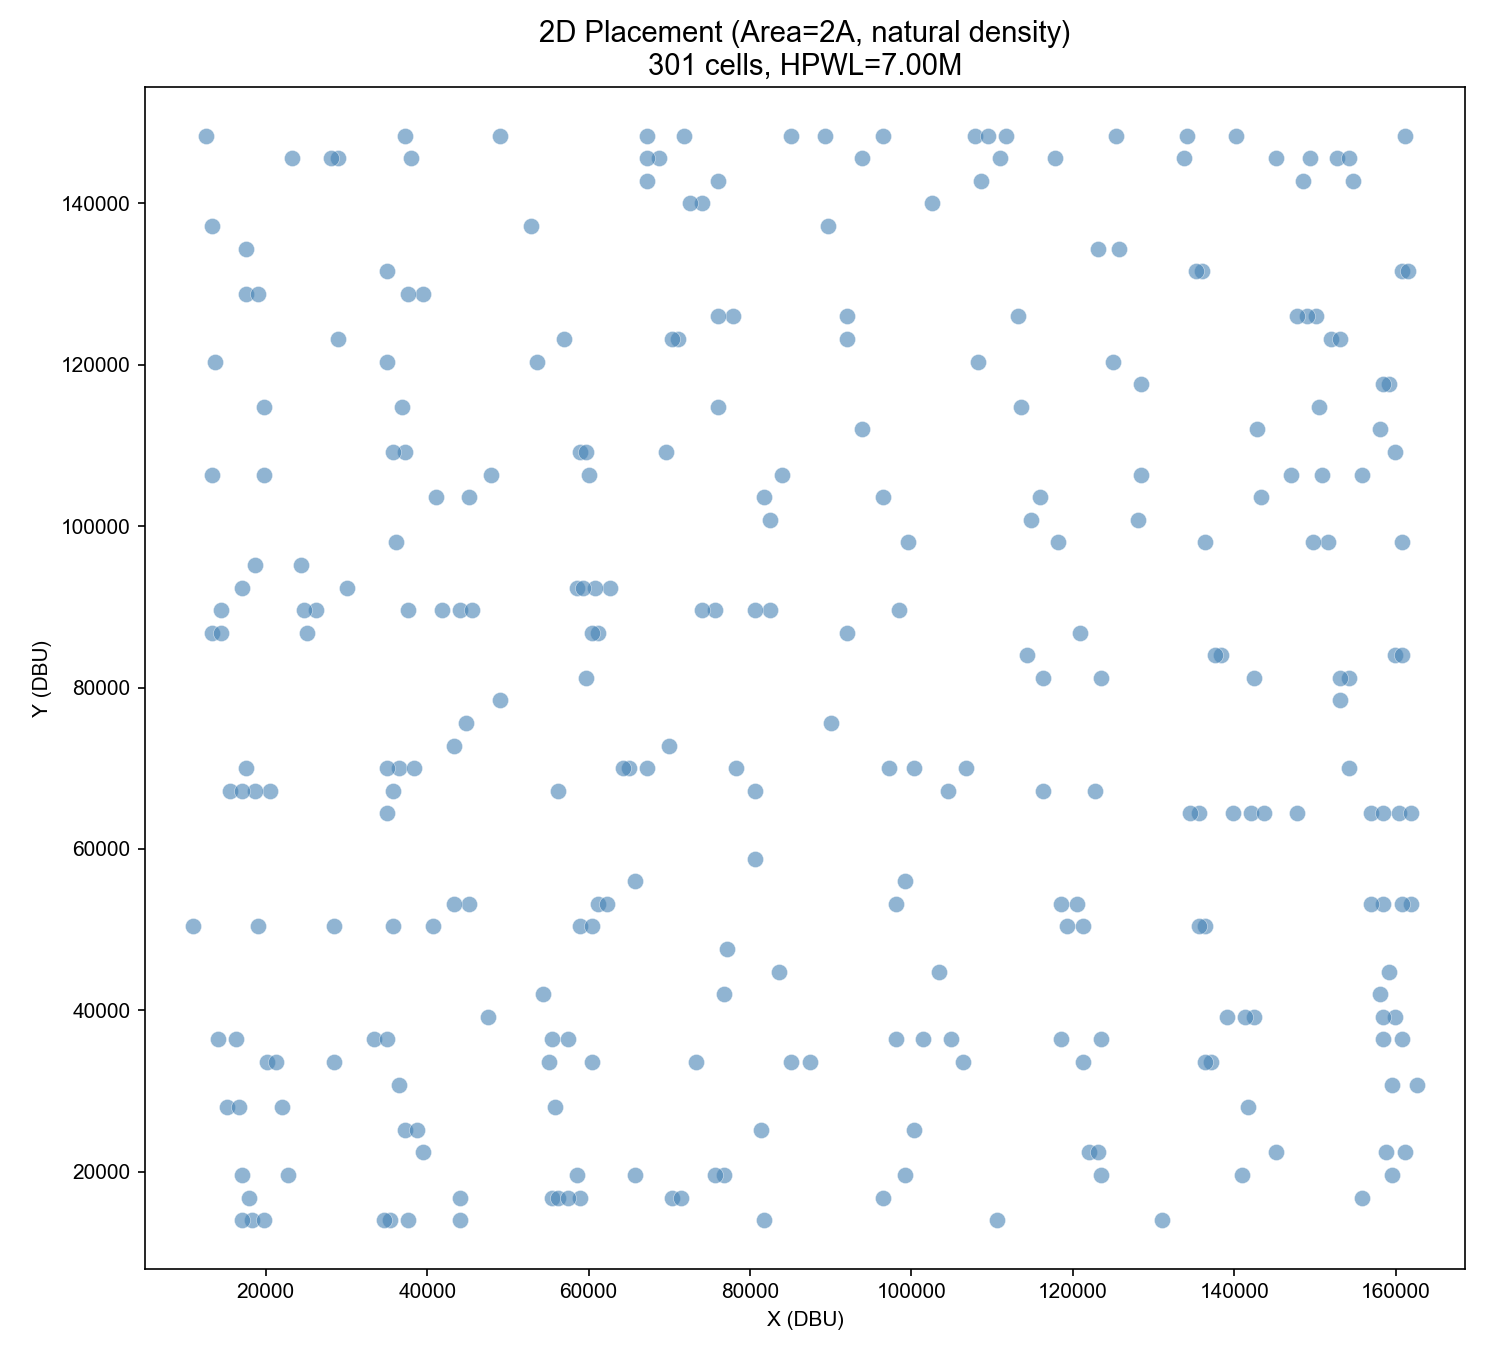
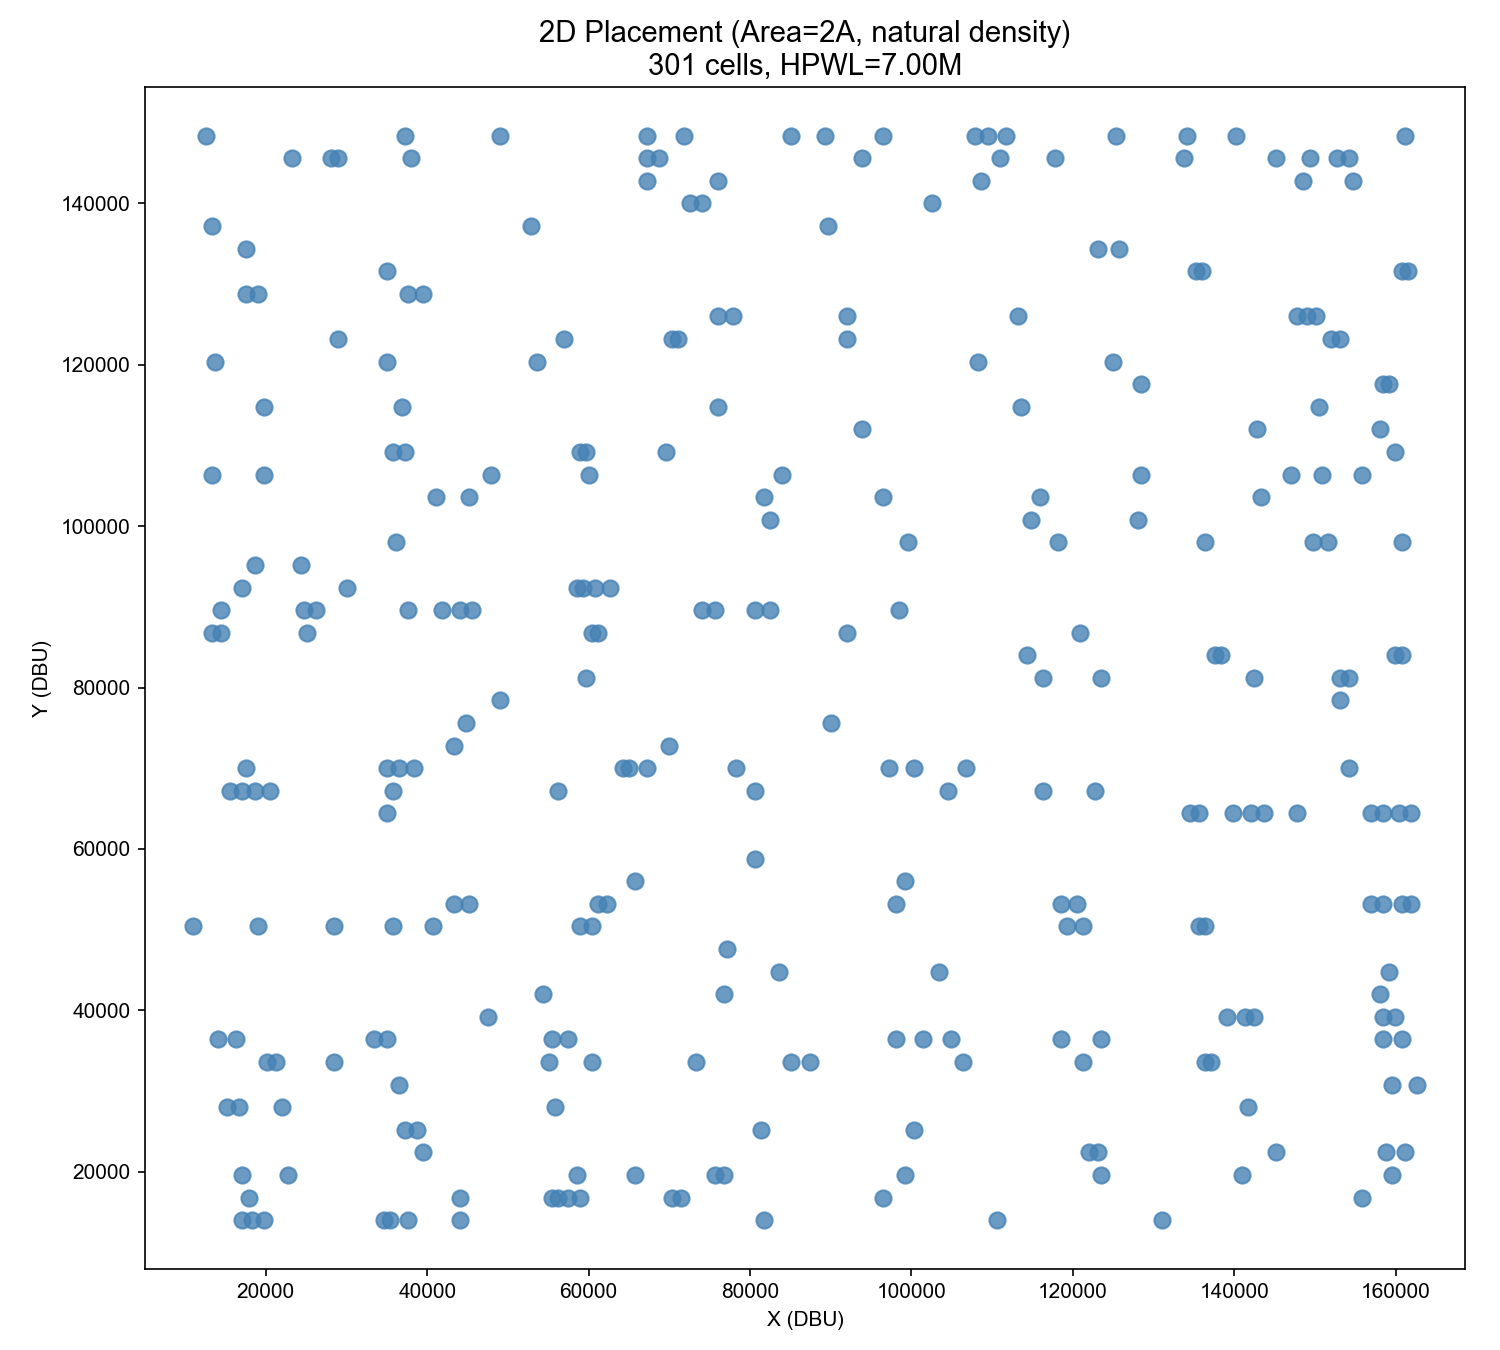
最简单的散点图: Bottom vs Top Die

diff --git a/scripts/plot_placement.py b/scripts/plot_placement.py
@@ -3,6 +3,7 @@
 
 import re, math
 import matplotlib
+matplotlib.use('Agg')
 import matplotlib.pyplot as plt
 matplotlib.rcParams['font.sans-serif'] = ['Arial Unicode MS', 'DejaVu Sans']
 matplotlib.rcParams['axes.unicode_minus'] = False
@@ -12,6 +13,8 @@ def parse(path):
     with open(path) as f: t = f.read()
     m = re.search(r'DIEAREA\s*\(\s*(\d+)\s+(\d+)\s*\)\s*\(\s*(\d+)\s+(\d+)\s*\)', t)
     if m: da = tuple(map(int, m.groups()))
+    comp = re.search(r'COMPONENTS[^;]*;(.*?)END COMPONENTS', t, re.DOTALL)
+    if comp: t = comp.group(1)
     for m in re.finditer(r'- (\S+) (\S+).*?\+ PLACED\s*\(\s*(\d+)\s+(\d+)\s*\)', t):
         cells.append((m.group(1), int(m.group(3)), int(m.group(4)), m.group(2)))
     return cells, da
@@ -26,7 +29,7 @@ ratio_2d = da2d[2] / da3d[2]
 # 1. 2D placement — zoom to cells
 fig, ax = plt.subplots(figsize=(10, 9))
 xs = [x for _,x,y,_ in d2d]; ys = [y for _,x,y,_ in d2d]
-ax.scatter(xs, ys, c='steelblue', s=60, alpha=0.6, edgecolors='white', linewidth=0.3)
+ax.scatter(xs, ys, c='steelblue', s=60, alpha=0.8)
 m = 6000
 ax.set_xlim(min(xs)-m, max(xs)+m); ax.set_ylim(min(ys)-m, max(ys)+m)
 ax.set_title(f'2D Placement (Area=2A, natural density)\n{len(d2d)} cells, HPWL=7.00M', fontsize=14, fontweight='bold')
@@ -38,7 +41,7 @@ plt.tight_layout(); plt.savefig('figures/gcd_2d.png', dpi=150); plt.close()
 fig, ax = plt.subplots(figsize=(8, 7))
 if bot:
     xs, ys = zip(*bot)
-    ax.scatter(xs, ys, c='#2E86AB', s=250, alpha=0.8, edgecolors='white', linewidth=0.5)
+    ax.scatter(xs, ys, color='#2E86AB', s=250, alpha=0.8)
     margin = 4000
     ax.set_xlim(min(xs)-margin, max(xs)+margin)
     ax.set_ylim(min(ys)-margin, max(ys)+margin)
@@ -51,7 +54,7 @@ plt.tight_layout(); plt.savefig('figures/gcd_3d_bottom.png', dpi=150); plt.close
 fig, ax = plt.subplots(figsize=(8, 7))
 if top:
     xs, ys = zip(*top)
-    ax.scatter(xs, ys, c='#D66853', s=250, alpha=0.8, edgecolors='white', linewidth=0.5)
+    ax.scatter(xs, ys, color='#D66853', s=250, alpha=0.8)
     margin = 4000
     ax.set_xlim(min(xs)-margin, max(xs)+margin)
     ax.set_ylim(min(ys)-margin, max(ys)+margin)
@@ -67,14 +70,14 @@ ax = axes[0]
 xs = [x for _,x,y,_ in d2d]; ys = [y for _,x,y,_ in d2d]
 sf = math.sqrt(ratio_2d)
 m = 6000
-ax.scatter(xs, ys, c='steelblue', s=40*sf, alpha=0.6, edgecolors='white', linewidth=0.3)
+ax.scatter(xs, ys, c='steelblue', s=40*sf, alpha=0.8)
 ax.set_title(f'2D (Area=2A)  {len(d2d)} cells', fontsize=12*sf, fontweight='bold')
 ax.set_xlim(min(xs)-m, max(xs)+m); ax.set_ylim(min(ys)-m, max(ys)+m); ax.set_aspect('equal')
 
 ax = axes[1]
 if bot:
     xs, ys = zip(*bot)
-    ax.scatter(xs, ys, c='#2E86AB', s=200, alpha=0.8, edgecolors='white', linewidth=0.5)
+    ax.scatter(xs, ys, color='#2E86AB', s=200, alpha=0.8)
     m3 = 4000
     ax.set_xlim(min(xs)-m3, max(xs)+m3); ax.set_ylim(min(ys)-m3, max(ys)+m3)
 ax.set_title(f'3D Bottom  {len(bot)} cells', fontsize=12, fontweight='bold')
@@ -83,7 +86,7 @@ ax.set_aspect('equal')
 ax = axes[2]
 if top:
     xs, ys = zip(*top)
-    ax.scatter(xs, ys, c='#D66853', s=200, alpha=0.8, edgecolors='white', linewidth=0.5)
+    ax.scatter(xs, ys, color='#D66853', s=200, alpha=0.8)
     m3 = 4000
     ax.set_xlim(min(xs)-m3, max(xs)+m3); ax.set_ylim(min(ys)-m3, max(ys)+m3)
 ax.set_title(f'3D Top  {len(top)} cells', fontsize=12, fontweight='bold')

diff --git a/scripts/plot_displacement.py b/scripts/plot_displacement.py
@@ -3,6 +3,7 @@
 
 import re, math, random
 import matplotlib
+matplotlib.use('Agg')
 import matplotlib.pyplot as plt
 matplotlib.rcParams['font.sans-serif'] = ['Arial Unicode MS', 'DejaVu Sans']
 matplotlib.rcParams['axes.unicode_minus'] = False
@@ -72,8 +73,8 @@ fig, ax = plt.subplots(figsize=(8, 7))
 for r in data:
     color = '#2E86AB' if r[5]==0 else '#D66853'
     ax.scatter(r[1]/2000, r[2]/2000, c=color, s=10, alpha=0.55, edgecolors='none')
-ax.scatter([], [], c='#2E86AB', s=15, label=f'-> Die0 ({len(die0d)})')
-ax.scatter([], [], c='#D66853', s=15, label=f'-> Die1 ({len(die1d)})')
+ax.scatter([], [], color='#2E86AB', s=15, label=f'-> Die0 ({len(die0d)})')
+ax.scatter([], [], color='#D66853', s=15, label=f'-> Die1 ({len(die1d)})')
 ax.legend(loc='upper right', fontsize=11)
 ax.set_xlim(0, 89); ax.set_ylim(0, 82); ax.set_aspect('equal')
 ax.set_xlabel('X (um)', fontsize=12); ax.set_ylabel('Y (um)', fontsize=12)
